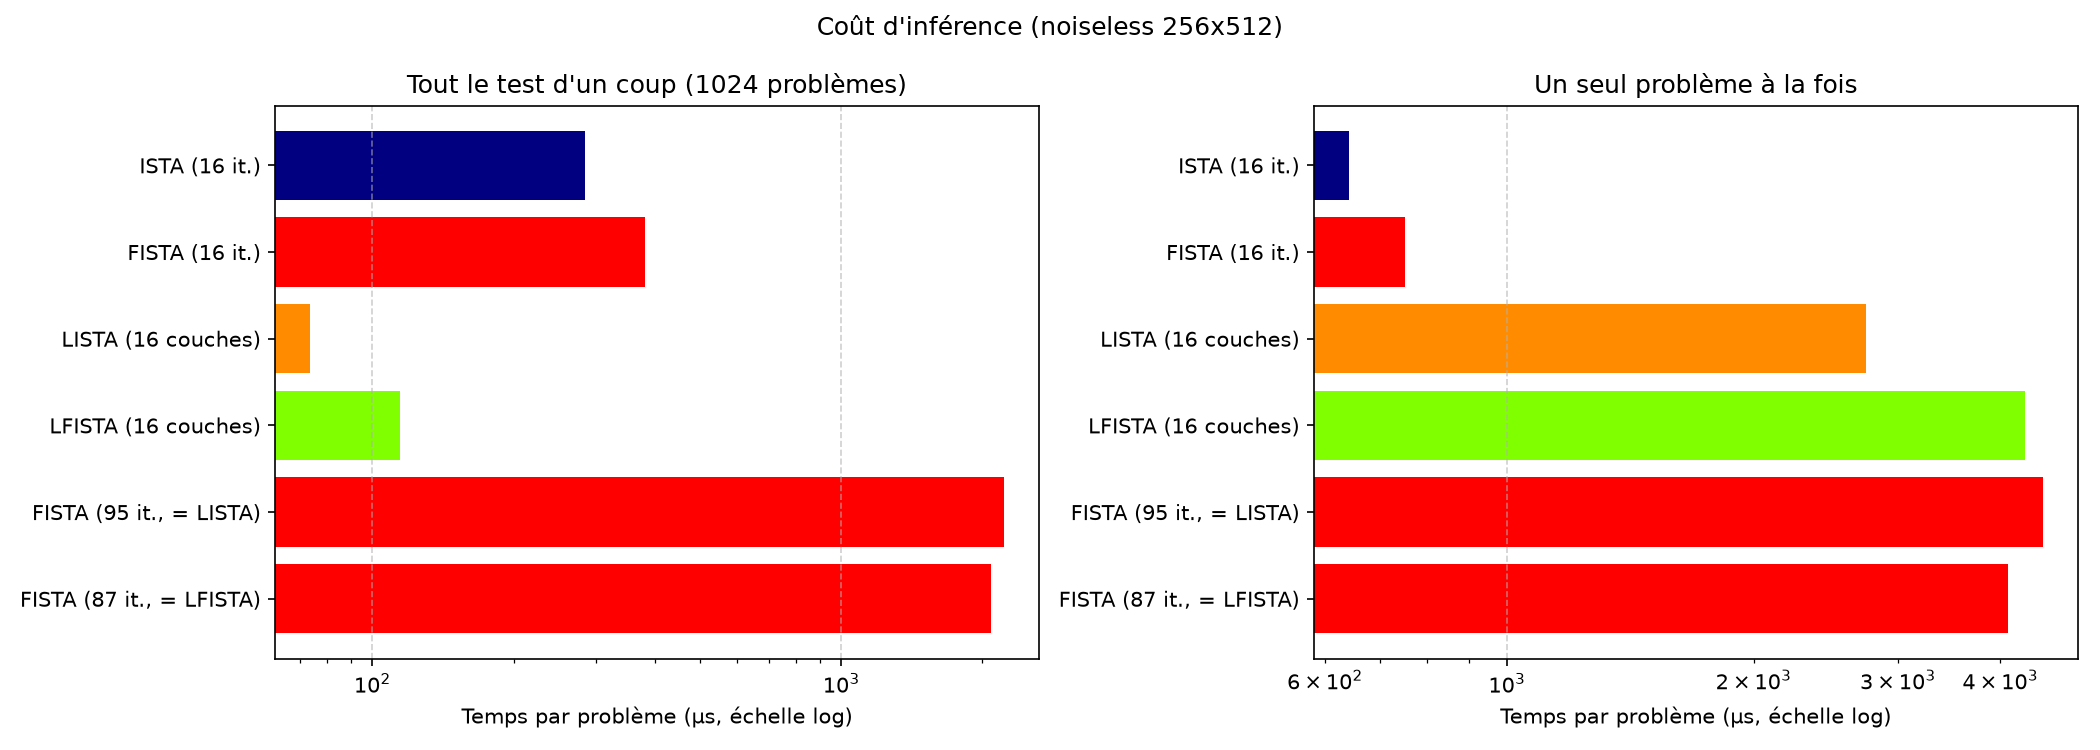
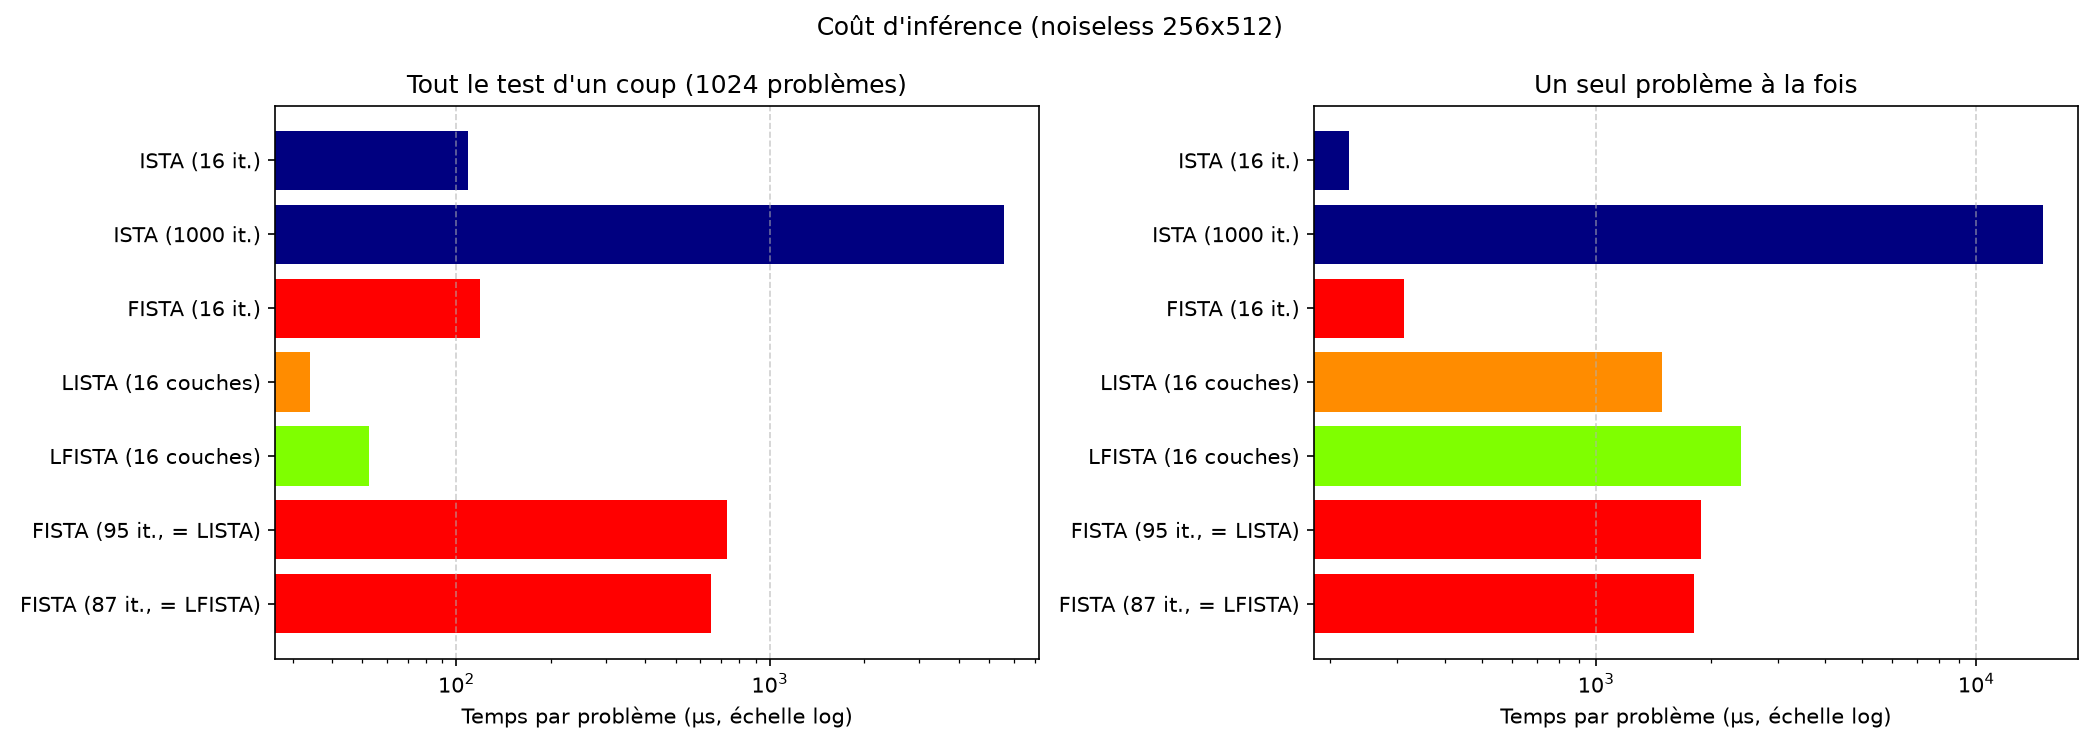
Maj cout & robustesse

diff --git a/project_ISTA_VS_LISTA/cout.py b/project_ISTA_VS_LISTA/cout.py
@@ -147,6 +147,7 @@ for nom_cas, (b, nb) in cas.items():
     print(f"\nChronométrage ({nom_cas}, {nb} problème(s) à la fois)...")
     temps[nom_cas] = {
         f"ISTA ({K} it.)": chrono(lambda: run_ista(b, K)) / nb,
+        f"ISTA ({1000} it.)": chrono(lambda: run_ista(b, 1000)) / nb,
         f"FISTA ({K} it.)": chrono(lambda: run_fista(b, K)) / nb,
         f"LISTA ({K} couches)": chrono(lambda: run_reseau(model_lista, b)) / nb,
         f"LFISTA ({K} couches)": chrono(lambda: run_reseau(model_lfista, b)) / nb,
@@ -162,67 +163,6 @@ for nom_cas, (b, nb) in cas.items():
 
 
 # ---------------------------------------------------------------
-# 4) Temps d'entraînement : estimation (ou valeur mesurée si renseignée)
-# ---------------------------------------------------------------
-def estimer_entrainement(model):
-    # Chronomètre n_pas_estim pas d'entraînement (forward + backward + Adam), puis extrapole
-    # aux epochs_train * (n_train / batch_size) pas. Le modèle est neuf : les poids sauvegardés ne sont pas touchés.
-    criterion = nn.MSELoss()
-    optimizer = torch.optim.Adam(model.parameters(), lr=5e-4)
-    b_train = torch.from_numpy(train_data[:, :M])
-    x_train = torch.from_numpy(train_data[:, M:])
-
-    durees = []
-    for i in range(n_pas_estim + 1):
-        idx = torch.randint(0, n_train, (batch_size,))
-        t0 = time.perf_counter()
-        loss = criterion(model(b_train[idx]), x_train[idx])
-        optimizer.zero_grad()
-        loss.backward()
-        torch.nn.utils.clip_grad_norm_(model.parameters(), max_norm=1.0)
-        optimizer.step()
-        if i > 0:   # le premier pas (plus lent) n'est pas compté
-            durees.append(time.perf_counter() - t0)
-
-    n_pas_total = epochs_train * int(np.ceil(n_train / batch_size))
-    return float(np.median(durees)) * n_pas_total
-
-print("\nEstimation du temps d'entraînement...")
-t_train_lista_estim = estimer_entrainement(LISTA(A=A, L=L, lag=lam, K=K))
-t_train_lfista_estim = estimer_entrainement(LFISTA(A=A, L=L, lag=lam, K=K))
-
-t_train_lista = T_TRAIN_LISTA_MESURE if T_TRAIN_LISTA_MESURE is not None else t_train_lista_estim
-t_train_lfista = T_TRAIN_LFISTA_MESURE if T_TRAIN_LFISTA_MESURE is not None else t_train_lfista_estim
-source_lista = "mesuré" if T_TRAIN_LISTA_MESURE is not None else "estimé"
-source_lfista = "mesuré" if T_TRAIN_LFISTA_MESURE is not None else "estimé"
-
-print(f"  LISTA  : {t_train_lista / 60:.1f} min ({source_lista}, estimation = {t_train_lista_estim / 60:.1f} min)")
-print(f"  LFISTA : {t_train_lfista / 60:.1f} min ({source_lfista}, estimation = {t_train_lfista_estim / 60:.1f} min)")
-
-
-# ---------------------------------------------------------------
-# 5) Point de rentabilité : N* = T_train / (gain de temps par problème, à précision égale avec FISTA)
-# ---------------------------------------------------------------
-def point_rentabilite(t_train, t_fista_meme_precision, t_reseau):
-    gain = t_fista_meme_precision - t_reseau
-    if gain <= 0:
-        return None   # le réseau n'est pas plus rapide que FISTA à précision égale : jamais rentable
-    return t_train / gain
-
-rentabilite = {}
-print("\nPoint de rentabilité face à FISTA (nombre de problèmes à résoudre pour amortir l'entraînement)")
-for nom_cas in cas:
-    t = temps[nom_cas]
-    n_lista = point_rentabilite(t_train_lista, t[f"FISTA ({n_fista_lista} it., = LISTA)"],
-                                t[f"LISTA ({K} couches)"]) if n_fista_lista is not None else None
-    n_lfista = point_rentabilite(t_train_lfista, t[f"FISTA ({n_fista_lfista} it., = LFISTA)"],
-                                 t[f"LFISTA ({K} couches)"]) if n_fista_lfista is not None else None
-    rentabilite[nom_cas] = (n_lista, n_lfista)
-    texte = lambda n: f"{n:,.0f} problèmes" if n is not None else "jamais"
-    print(f"  {nom_cas:9s} : LISTA {texte(n_lista)} | LFISTA {texte(n_lfista)}")
-
-
-# ---------------------------------------------------------------
 # Sauvegarde des résultats
 # ---------------------------------------------------------------
 methodes_batch = list(temps["batch"].keys())
@@ -233,10 +173,7 @@ np.savez(resultats_dir / "resultats_cout.npz",
          n_fista_lfista=-1 if n_fista_lfista is None else n_fista_lfista,
          methodes=methodes_batch,
          temps_batch=[temps["batch"][m] for m in methodes_batch],
-         temps_unitaire=[temps["unitaire"][m] for m in methodes_batch],
-         t_train_lista=t_train_lista, t_train_lfista=t_train_lfista,
-         rentabilite_batch=[np.nan if n is None else n for n in rentabilite["batch"]],
-         rentabilite_unitaire=[np.nan if n is None else n for n in rentabilite["unitaire"]])
+         temps_unitaire=[temps["unitaire"][m] for m in methodes_batch])
 print(f"\nRésultats sauvegardés dans {resultats_dir / 'resultats_cout.npz'}")
 
 

diff --git a/project_ISTA_VS_LISTA/robustesse.py b/project_ISTA_VS_LISTA/robustesse.py
@@ -83,12 +83,9 @@ def evaluer(b, x_true, A_utilisee):
         nmse_lista = model_lista.compute_nmse_db(model_lista(b_t), x_t)
         nmse_lfista = model_lfista.compute_nmse_db(model_lfista(b_t), x_t)
 
-    return [nmse_history_ista[K], nmse_history_fista[K],
-            nmse_history_ista[-1], nmse_history_fista[-1],
-            nmse_lista, nmse_lfista]
+    return [nmse_history_ista[-1], nmse_history_fista[100], nmse_lista, nmse_lfista]
 
-methodes = [f"ISTA ({K} it.)", f"FISTA ({K} it.)", f"ISTA ({n_iter} it.)", f"FISTA ({n_iter} it.)",
-            f"LISTA ({K} couches)", f"LFISTA ({K} couches)"]
+methodes = [f"ISTA ({n_iter} it.)", f"FISTA (100 it.)", f"LISTA ({K} couches)", f"LFISTA ({K} couches)"]
 
 
 # ---------------------------------------------------------------
@@ -174,9 +171,9 @@ afficher_tableau("Amplitude de x* (entraînement : 1) — NMSE en dB", amp_value
 # ---------------------------------------------------------------
 # Affichage graphique
 # ---------------------------------------------------------------
-couleurs = ["navy", "red", "navy", "red", "darkorange", "chartreuse"]
-styles = ["-", "-", "--", "--", "-", "-"]
-marqueurs = ["o", "o", "", "", "s", "s"]
+couleurs = ["navy", "red", "darkorange", "chartreuse"]
+styles = ["-", "-", "-", "-"]
+marqueurs = ["o", "o", "s", "s"]
 
 groupes = [
     ("Parcimonie p (entraînement : 0.1)", [str(v) for v in p_values], nmse_p),

diff --git a/project_ISTA_VS_LISTA/display_nmse.py b/project_ISTA_VS_LISTA/display_nmse.py
@@ -1,8 +1,6 @@
-import os
 from pathlib import Path
 import numpy as np
 import matplotlib.pyplot as plt
-from fista import FISTA
 import sys
 import torch
 sys.path.append(Path(__file__).resolve().parent.parent)   # pour importer lista.py (à la racine du projet)
@@ -12,6 +10,7 @@ from lfista import LFISTA
 # Chemins
 BASE_DIR = Path(__file__).resolve().parent.parent
 data_dir = BASE_DIR / "data" / "noiseless_256_512"
+resultats_dir = BASE_DIR / "project_ISTA_VS_LISTA" / "resultats_train"
 
 A = np.load(data_dir / "A.npy")
 data = np.load(data_dir / "test_data.npy")
@@ -68,4 +67,5 @@ plt.title(f"Convergence d'ISTA sur le LASSO (noiseless {A.shape[0]}x{A.shape[1]}
 plt.grid(True, linestyle="--", alpha=0.6)
 plt.legend()
 plt.tight_layout()
+plt.savefig(resultats_dir / "display_nmse.png", dpi=150)
 plt.show()

diff --git a/project_ISTA_VS_LISTA/train_ista.py b/project_ISTA_VS_LISTA/train_ista.py
@@ -1,7 +1,6 @@
 from ista import ISTA
 from pathlib import Path
 import numpy as np
-import matplotlib.pyplot as plt
 from ista import ISTA
 import sys
 sys.path.append(Path(__file__).resolve().parent.parent) 
